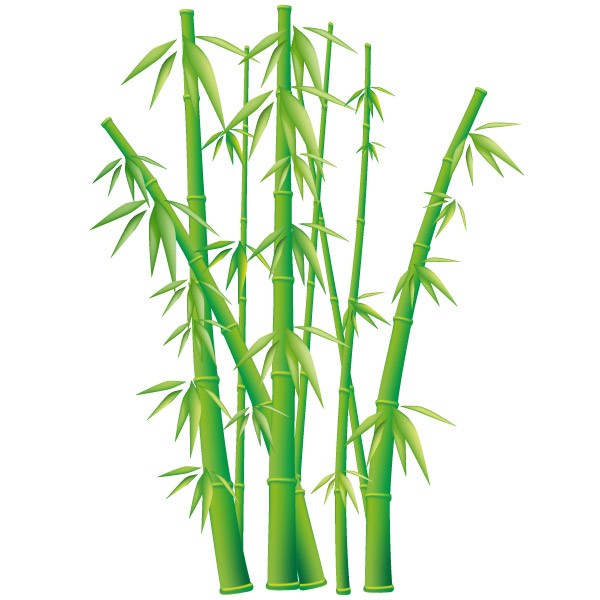
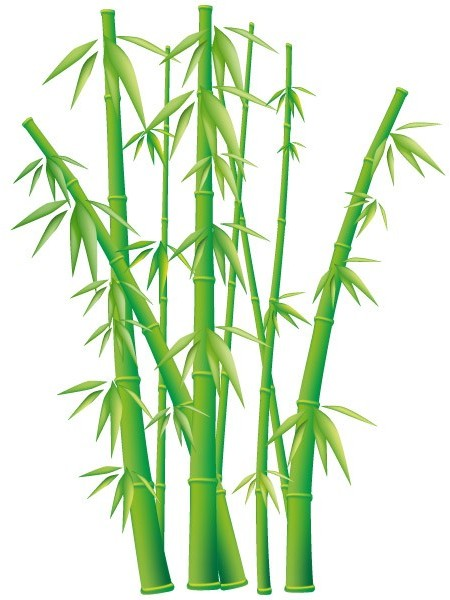
bord extérieur au corps ; recadrage de 2 images

diff --git a/index.html b/index.html
@@ -17,12 +17,12 @@
 
   <body>
     <div class="banniere">
-        <img src="images/cote_bambou.jpg" alt="" height="200" width="200" />
-		<img src="images/logo.jpg" alt="" style="margin:0 15%;" height="200" width="250" />
-		<img src="images/cote_bambou.jpg" alt="" height="200" width="200" />
+        <img src="images/cote_bambou.jpg" alt="" height="200" />
+		<img src="images/logo.jpg" alt="Logo de l'ABULE" style="margin:0 15%;" height="200" width="250" />
+		<img src="images/cote_bambou.jpg" alt="" height="200" />
     </div>
     <div class="menu">
-        <img src="images/ecologie.gif" alt="" style="margin: 30px auto 10px;" height="170" width="170" />
+        <img src="images/ecologie.gif" alt="" style="margin: 25px 58px 8px;" width="110" />
         <h2>Accueil</h2>
         <h2>Présentation de l´Association</h2>
         <h2>Événement</h2>
@@ -38,21 +38,23 @@
         <h2>À découvrir</h2>
         <h2>Liens</h2>
     </div>
-    <div class="corps">
-        <h1>Présentation de l´Association</h1>
-        <p>L´ABULE est une association étudiante qui a pour objectif d´animer
-        les départements de Biologie, Géologie et Environnement de l´Université
-        du Littoral. ses membres cherchent également à promouvoir des actions écologiques
-        visant à sensibiliser le public et tous les acteurs de l´université.</p>
-        <p>Plus concrétement, l´ABULE c´est aussi plusieurs projets :</p>
-        <ul>
-            <li>Journée d´intégration, soirées à thème, sorties, ...</li>
-            <li>Aides aux étudiants : bourse aux livres, réseau d´anciens
-            étudiants, photocopies, ...</li>
-            <li>Conférences / expositions / sorties sur l´écologie</li>
-            <li>Collectes, rédactions de tracts, actions de
-            sensibilisation, projets, ... pour l´environnement</li>
-        </ul>
+    <div class="bord">
+        <div class="corps">
+            <h1>Présentation de l´Association</h1>
+            <p>L´ABULE est une association étudiante qui a pour objectif d´animer
+            les départements de Biologie, Géologie et Environnement de l´Université
+            du Littoral. ses membres cherchent également à promouvoir des actions écologiques
+            visant à sensibiliser le public et tous les acteurs de l´université.</p>
+            <p>Plus concrétement, l´ABULE c´est aussi plusieurs projets :</p>
+            <ul>
+                <li>Journée d´intégration, soirées à thème, sorties, ...</li>
+                <li>Aides aux étudiants : bourse aux livres, réseau d´anciens
+                étudiants, photocopies, ...</li>
+                <li>Conférences / expositions / sorties sur l´écologie</li>
+                <li>Collectes, rédactions de tracts, actions de
+                sensibilisation, projets, ... pour l´environnement</li>
+            </ul>
+        </div>
     </div>
     <div class="contact">
         "Contactez-nous" : labulecalais@gmail.com
@@ -69,4 +71,3 @@
     </div>
   </body>
 </html>
-

diff --git a/style.css b/style.css
@@ -51,8 +51,8 @@ ul {
     border-style: inset outset;
     border-color: #381c00 #663300;
     border-width: 4px;
-    width: 19%;
-    min-width: 210px;
+    width: 230px;
+/*    min-width: 210px;*/
     padding: 2px;
     margin: 1ex;
     background-color: white;
@@ -93,12 +93,7 @@ p:first-letter {
     }
 
 .corps {
-    float: right;
-    display: block;
-    width: 74%;
     padding: 1ex;
-    margin: 1ex;
-    border: 4px double #663300;
     background-color: white;
     background-repeat: no-repeat;
     background-position: right bottom;
@@ -108,6 +103,14 @@ p:first-letter {
     font-family: cursive;
     text-align: left;
     color: #003300;
+    }
+
+.bord {
+    float: right;
+    display: block;
+    width: 75%;
+    margin: 1ex;
+    border: 4px double #663300;
     }
 
 .contact {
